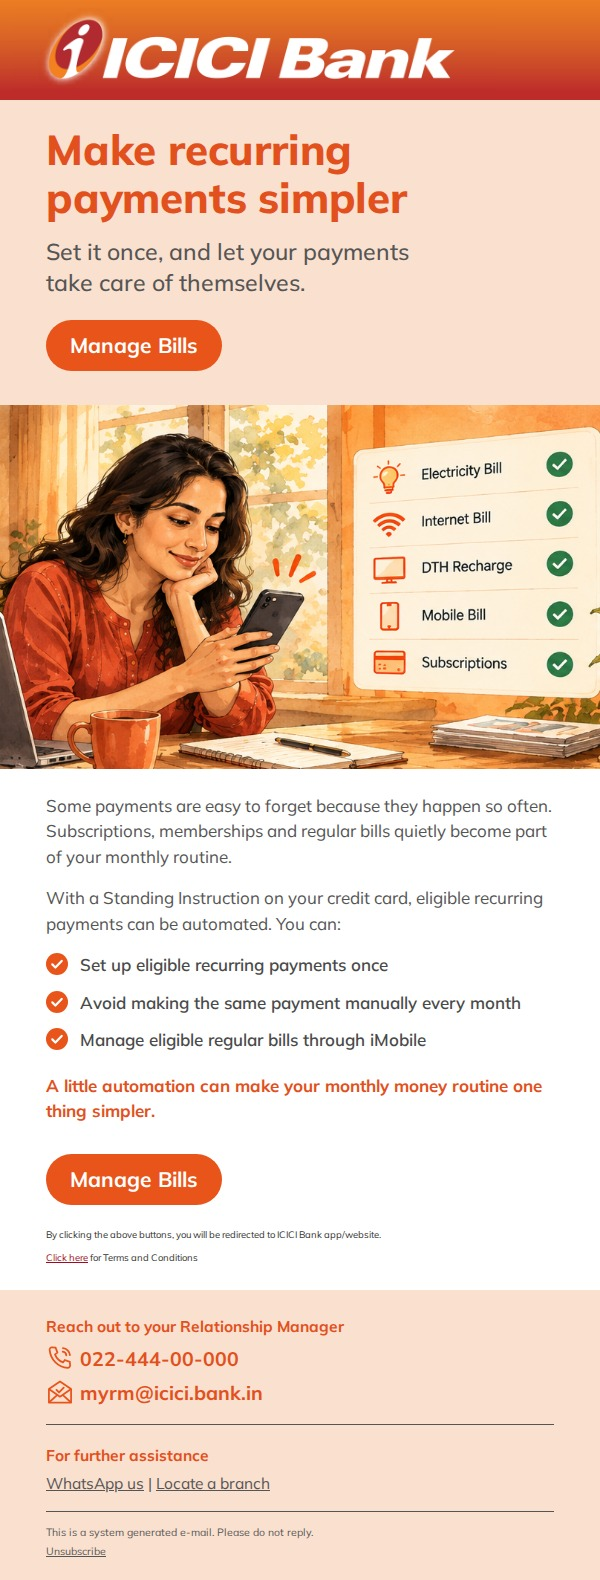
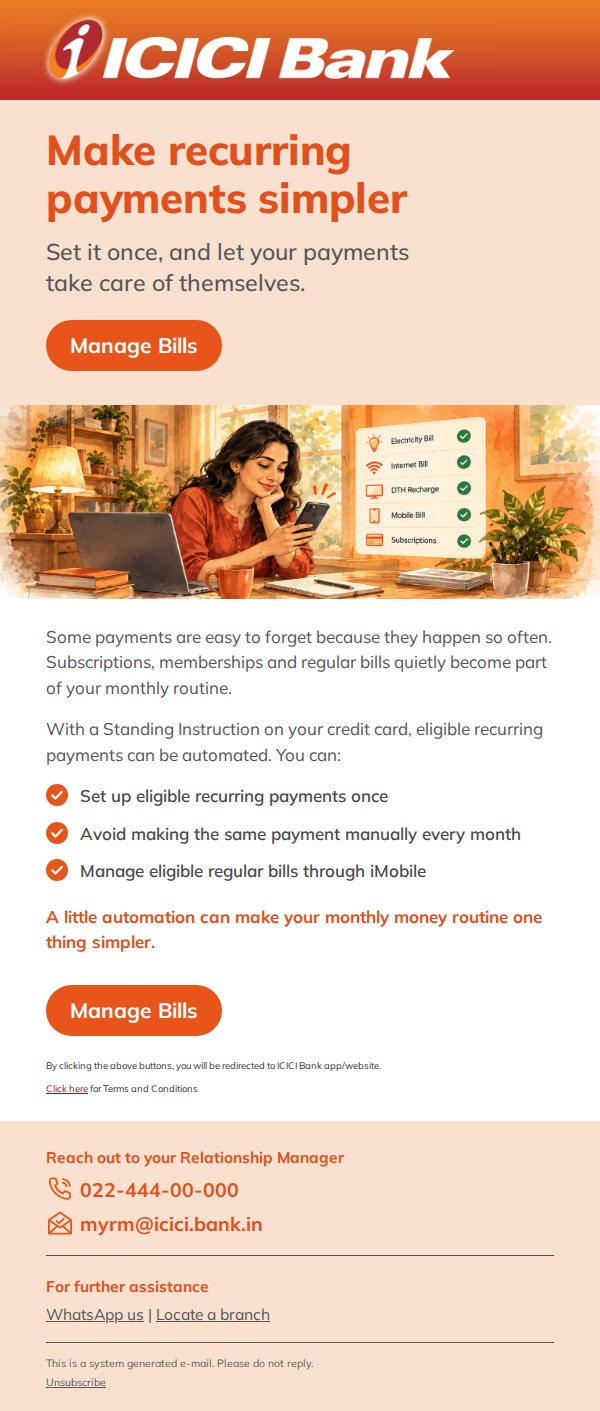
Use the full Recurring Payments illustration, resized instead of cropped
Claude-Session: https://claude.ai/code/session_01Xrrh9AtUaVEQQhgAmmX2d4

diff --git a/mailers/source/mailer1.html b/mailers/source/mailer1.html
@@ -31,7 +31,7 @@ h1{font-size:42px;line-height:1.14;font-weight:800;color:#E2501D;letter-spacing:
 .sm{font-size:10.5px;line-height:1.6;color:#555}
 .sm a{color:#555}
 
-.body{text-align:left}.imgcrop img{margin-top:-0px}.imgcrop{overflow:hidden;height:364px}</style></head><body><div class="m">
+.body{text-align:left}.imgcrop img{margin-top:-0px}.imgcrop{overflow:hidden;height:195px}</style></head><body><div class="m">
 <div class="hd"><img src="logo-band.png" alt="ICICI Bank"></div>
 <div class="hero"><h1>Make recurring payments simpler</h1><p class="sub">Set it once, and let your payments<br>take care of themselves.</p><a class="btn">Manage Bills</a></div>
 <div class="vis imgcrop"><img src="ill-bills.png" style=""></div>

diff --git a/mailers/source/build.py b/mailers/source/build.py
@@ -57,7 +57,7 @@ def mailer(d):
 </div></body></html>"""
 
 M1=dict(h1='Make recurring payments simpler',sub='Set it once, and let your payments<br>take care of themselves.',cta='Manage Bills',
- img='ill-bills.png',crop=0,h=364,align='left',
+ img='ill-bills.png',crop=0,h=195,align='left',
  pre=['Some payments are easy to forget because they happen so often. Subscriptions, memberships and regular bills quietly become part of your monthly routine.',
       'With a Standing Instruction on your credit card, eligible recurring payments can be automated. You can:'],
  list=['Set up eligible recurring payments once','Avoid making the same payment manually every month','Manage eligible regular bills through iMobile'],
